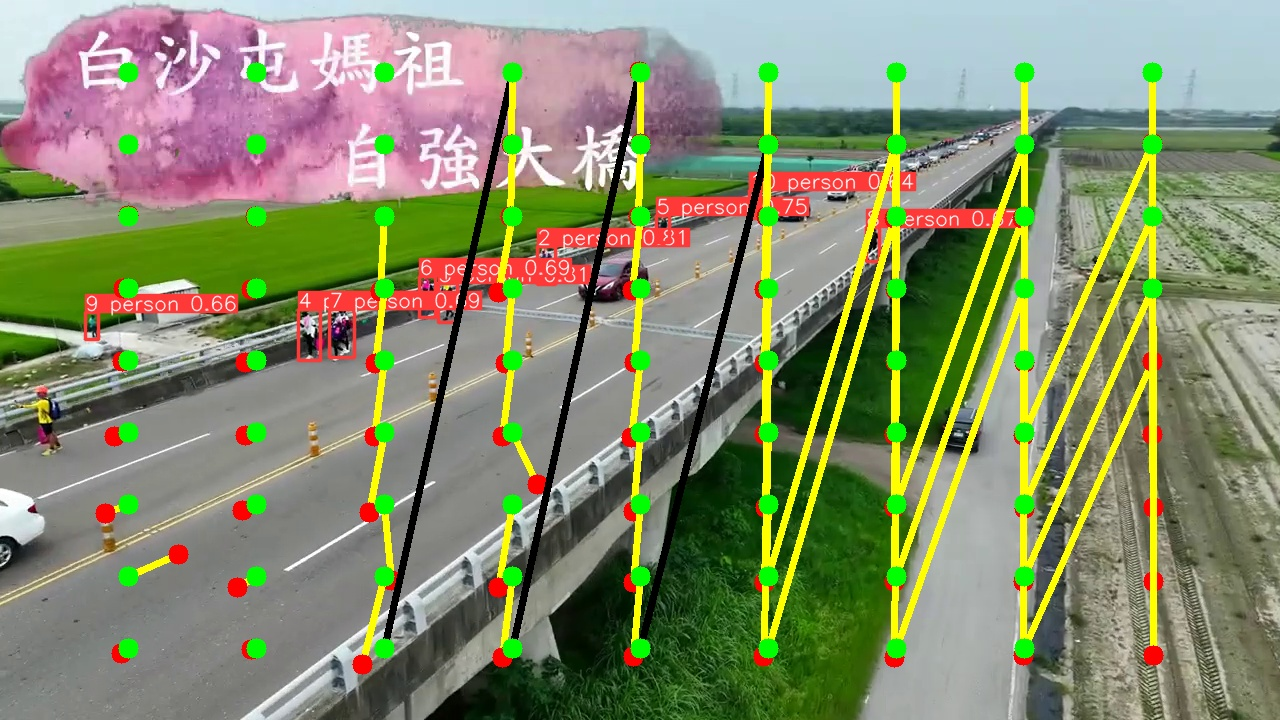
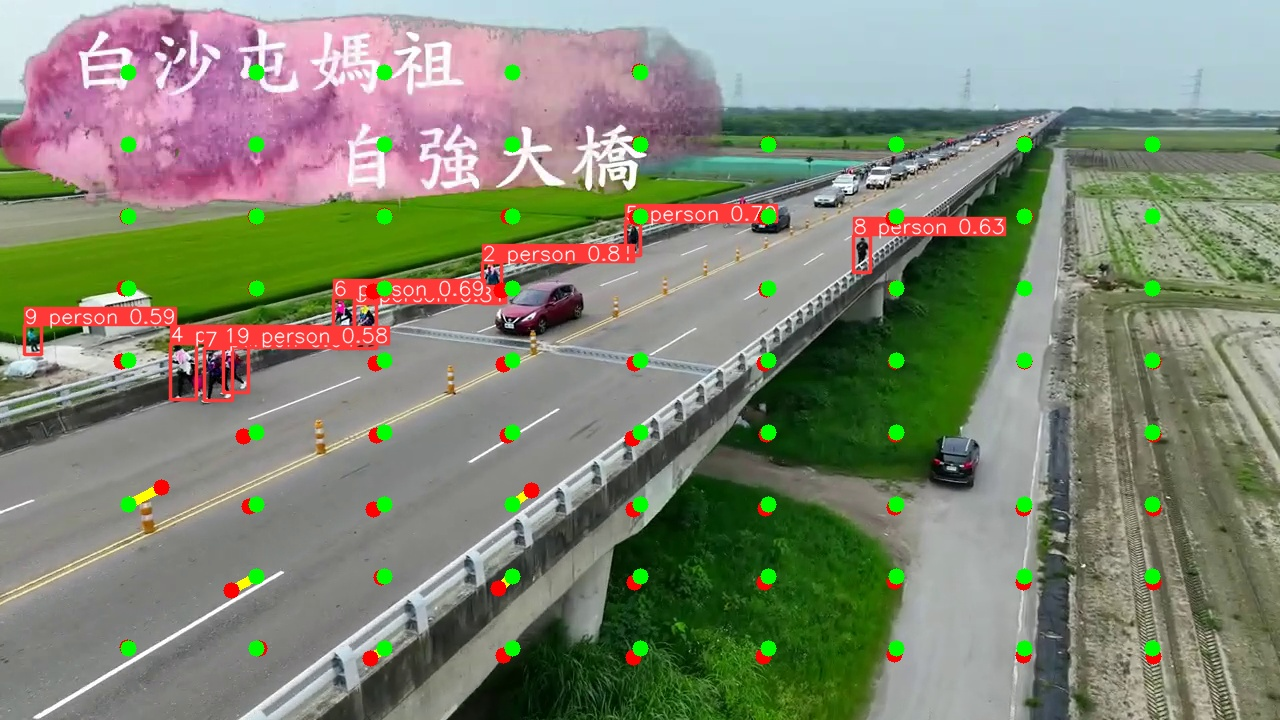
update optical flow v2.0(fix status == 1 problem)

diff --git a/optflow.py b/optflow.py
@@ -5,12 +5,13 @@ import copy
 import time
 from pptracking_util import dist
 class Optflow: 
-    def __init__(self, feature_shape): 
-        self.feature_shape = feature_shape
+    def __init__(self): 
         self.lk_params = dict(  winSize = (15, 15), 
                                 maxLevel = 2,
                                 criteria = (cv2.TERM_CRITERIA_EPS| cv2.TERM_CRITERIA_COUNT, 10, 0.03))
-    def put_ppbox_mask(self, img, ppbox):  # 先把人遮住，之後只需判斷是否為mask就能判斷是否在ppbox內
+        
+    # 先把人遮住，之後只需判斷是否為mask就能判斷是否在ppbox內
+    def get_ppbox_mask(self, img, ppbox):  
         img_shape = img.shape
         # 白色背景
         mask = np.zeros((img_shape[0], img_shape[1], 3), dtype=np.int32)
@@ -24,12 +25,19 @@ class Optflow:
             mask[start_y:end_y, start_x:end_x] = box_img
         cv2.imwrite('mask.jpg', mask)
         return mask
-        
-    def get_features(self, img, ppbox):
+    
+    # check whether in people boxes
+    def is_in_ppbox(self, point, mask):
+        point = point.astype(np.int32)
+        if np.array_equal(mask[point[1], point[0]], np.array([0, 0, 0])): 
+            return True
+        return False
+    
+    # get all needed points position in given image
+    def get_features(self, img, masked_img, feature_shape):
         w, h = img.shape[0:2]
-        unit_w = w//self.feature_shape[0]
-        unit_h = h//self.feature_shape[1]
-        masked_img = self.put_ppbox_mask(img, ppbox)
+        unit_w = w//feature_shape[0]
+        unit_h = h//feature_shape[1]
 
         pointed_img = copy.deepcopy(img)
         features = [] 
@@ -43,17 +51,15 @@ class Optflow:
                 continue
             if position[0] >= h:
                 break
-            if not np.array_equal(masked_img[position[1], position[0]], np.array([0, 0, 0])): 
+            if not self.is_in_ppbox(position, masked_img): 
                 pointed_img = cv2.circle(pointed_img, (position[0], position[1]), 10, [0,255,0], -1)
-                # cv2.imwrite('features_points.jpg', pointed_img)
-                # time.sleep(0.01)
                 features.append(copy.deepcopy(position))
             position += np.array([0, unit_w])
             
         cv2.imwrite('features_points.jpg', pointed_img)
         return np.array(features)
-
-    def getOpticalFlow(self, prev_img, next_img, prev_features):
+    # function of Using optical flow calculatoin and get usable features' movment.
+    def get_opticalflow_point(self, prev_img, next_img, prev_features, masked_img):
         if prev_img is None:
             print('(In getOpticalFlow() ): prev_img is none')
             return None
@@ -64,14 +70,20 @@ class Optflow:
         gray_next_img = cv2.cvtColor(next_img, cv2.COLOR_BGR2GRAY)
         # for pt0 in prev_features:
         result, status, err = cv2.calcOpticalFlowPyrLK(gray_prev_img, gray_next_img, prev_features, None, **self.lk_params)
-        # all_corresponded_feature.append(result[status == 1])
-        print(result[status == 1])
-        return result[status == 1]
+        
+        all_usable_prev_feature = []
+        all_usable_result = []
+        prev_features = prev_features.reshape(len(prev_features), 2)
+        result = result.reshape(len(result), 2)
+        for point0, point1, s in zip(prev_features, result, status):
+            if s == 1 and not self.is_in_ppbox(point1, masked_img):
+                all_usable_prev_feature.append(point0)
+                all_usable_result.append(point1)
+        return np.array(all_usable_prev_feature), np.array(all_usable_result)
     def draw_optflow(self, frame, pt0s, pt1s):
         if pt1s is None:
             print('no opt_result!!')
             return
-        
         temp_frame = copy.deepcopy(frame)
         pt0s = pt0s.astype(np.int32)
         pt1s = pt1s.astype(np.int32)
@@ -86,11 +98,14 @@ class Optflow:
             a,b = new.ravel()
             c,d = old.ravel()
             print("line from {} to {}".format(old, new))
-            temp_frame = cv2.line(temp_frame, (a,b), (c,d), line_color, 5)
-            temp_frame = cv2.circle(temp_frame, (a,b), 10, [0,0,255], -1)
-            temp_frame = cv2.circle(temp_frame, (c,d), 10, [0,255,0], -1)
-            cv2.imwrite('optical_flow.jpg', temp_frame)
-            time.sleep(0.3)
+            temp_frame = cv2.arrowedLine(temp_frame, (a,b), (c,d), line_color, 7)
+            
+            temp_frame = cv2.circle(temp_frame, (a,b), 8, [0,0,255], -1)
+            temp_frame = cv2.circle(temp_frame, (c,d), 8, [0,255,0], -1)
+            
+            # cv2.imwrite('optical_flow.jpg', temp_frame)
+            # time.sleep(0.3)
+        cv2.imshow('optical_flow', temp_frame)
         cv2.imwrite('optical_flow.jpg', temp_frame)    
             
             

diff --git a/track.py b/track.py
@@ -204,6 +204,7 @@ def run(
     # ---------------------------------------------------------------------------------
     prev_img = None
     prev_features = None
+    ppbox_mask = None
     n_frame = 2 # 決定一次要分析幾個frame , n_frame must>= 2
     data_site = DataSites(n_frame)
     b_manager = BackgroundManager()
@@ -374,13 +375,16 @@ def run(
             
             if ppl_res:
                 if show_optflow:
-                    optflow = Optflow((10, 10))
-                    
-                    result = optflow.getOpticalFlow(prev_img, im0, prev_features)
-                    optflow.draw_optflow(im0, prev_features, result)
+                    optflow = Optflow()     # set feature density (amount)
+                    ppbox_mask= optflow.get_ppbox_mask(im0, outputs)
+                    if prev_features is not None:
+                        result0, result1 = optflow.get_opticalflow_point(prev_img, im0, prev_features, ppbox_mask)
+                        # print(result0, result1)
+                        optflow.draw_optflow(im0, result0, result1)
+                    # -----
                     prev_img = im0
-                    prev_features = optflow.get_features(im0, outputs)
-                    time.sleep(1)
+                    prev_features = optflow.get_features(im0, ppbox_mask, (10, 10))
+                    # print(prev_features)s
                 if show_heatmap: 
                     h, w = im0.shape[0:2]
                     heatmap_prev_time = time.time()
